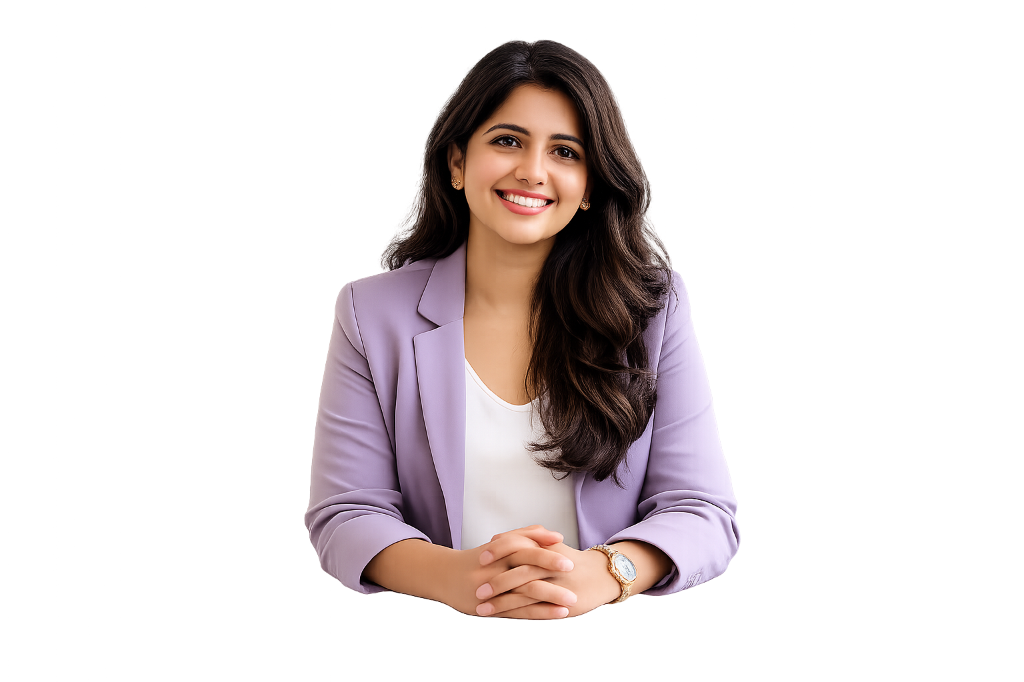
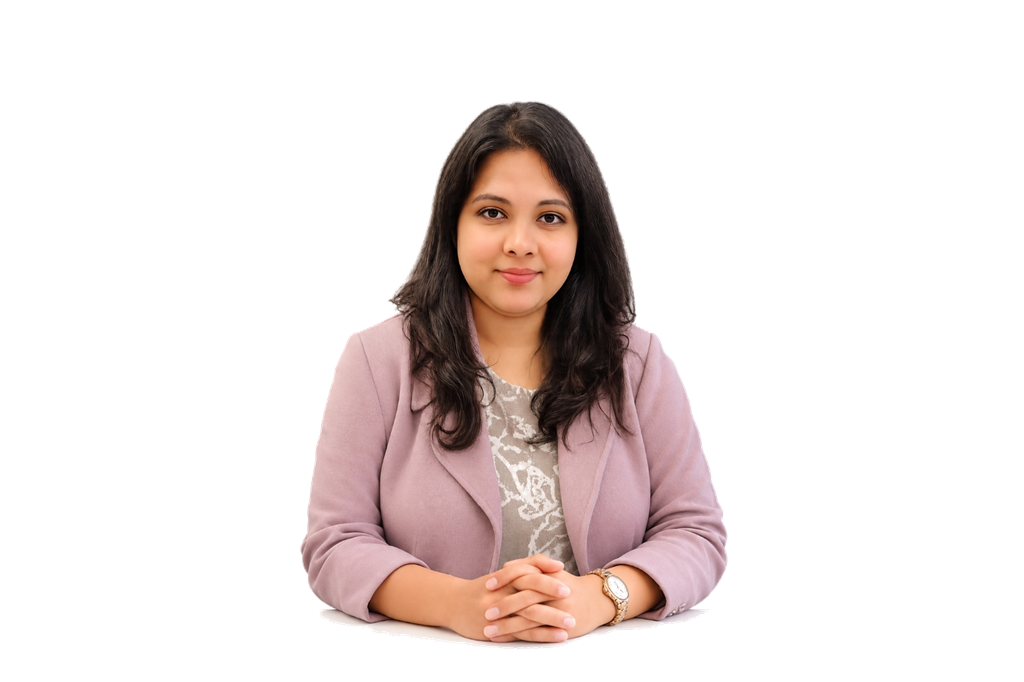
changed hero image

Changed region(s): [[0.2812, 0.0616, 0.7188, 0.9545]]

diff --git a/client/src/index.css b/client/src/index.css
@@ -51,8 +51,7 @@ html {
     scroll-behavior: smooth;
     font-size: 16px;
     -webkit-font-smoothing: antialiased;
-    max-width: 100vw;
-    overflow-x: hidden !important;
+    overflow-x: hidden;
 }
 
 body {
@@ -60,8 +59,7 @@ body {
     background-color: var(--bg-base);
     color: var(--text-primary);
     line-height: 1.6;
-    max-width: 100vw;
-    overflow-x: hidden !important;
+    overflow-x: hidden;
     position: relative;
 }
 

diff --git a/client/src/App.jsx b/client/src/App.jsx
@@ -37,7 +37,7 @@ export default function App() {
   const [bookingError, setBookingError] = useState('');
 
   // Server API base URL
-  const API_BASE = 'http://localhost:5000/api';
+  const API_BASE = import.meta.env.VITE_BACKEND_URL || 'http://localhost:5000/api';
 
   // Admin Portal state
   const [isAdminModalOpen, setIsAdminModalOpen] = useState(false);